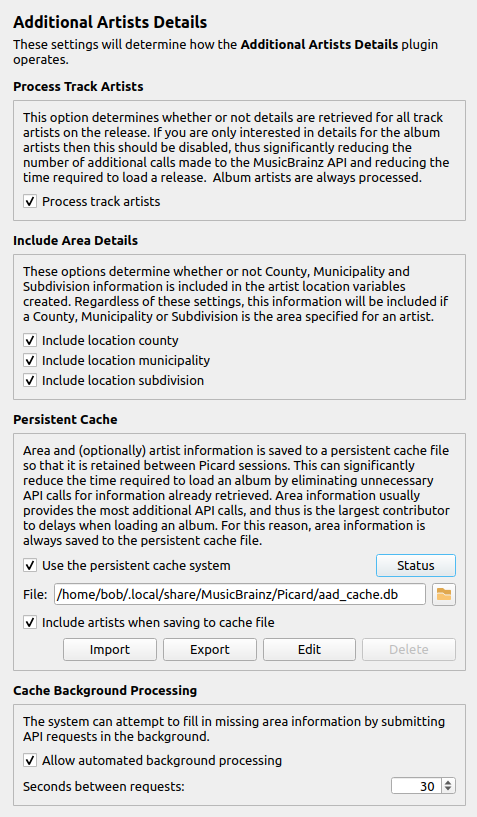
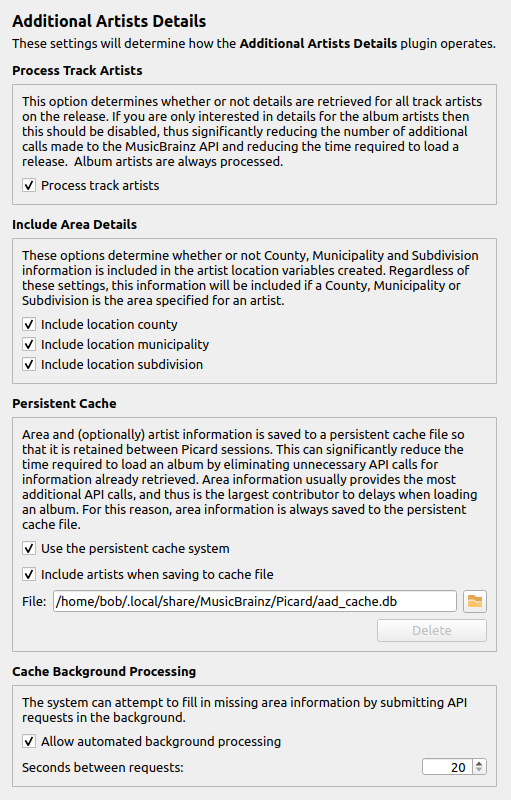
Revision to "Additional Artists Details"

diff --git a/additional_artists_details/user_guide.rst b/additional_artists_details/user_guide.rst
@@ -20,9 +20,9 @@ The plugin maintains a cache of artist and area information retrieved from Music
 
 There is a persistent cache system that utilizes a sqlite file to retain the information from the cache for use in subsequent Picard sessions.
 
-Area and (optionally) artist information is saved to the persistent cache file. Area information usually provides the most additional API calls, and thus is the largest contributor to delays when loading an album. For this reason, area information is always saved to the persistent cache file.
+Area and (optionally) artist information is saved to the persistent cache file. Area information usually provides the most additional API calls, and thus is the largest contributor to delays when loading an album. For this reason, area information is always saved to the persistent cache file if it is enabled.
 
-When artist and area information is retrieved from MusicBrainz, the persistent cache file is updated automatically with any new items, and the items are added to the session working cache.
+When artist and area information is retrieved from MusicBrainz, if the persistent cache system is enabled the database is updated automatically with any new items. Otherwise the items are added to the session working cache.
 
 Option Settings
 ----------------
@@ -60,28 +60,25 @@ While area information is almost always static and does not change, artist infor
 
    If use of the persistent cache system is disabled, no information will be written to, or read from, the persistent cache file.
 
-.. image:: cache_editor.png
-   :alt: Additional Artists Details Cache Editor
+Cache Background Processing
+++++++++++++++++++++++++++++
+
+Occasionally, area information is not retrieved from MusicBrainz as part of the normal album retrieval. This is typically the result of the MusicBrainz API being overloaded (usually by AI scrapers). Missing area information can result in incomplete area information in tags generated for an artist.
+
+The plugin attempts to address this by periodically reviewing the cache database to identify any missing parent areas, and generating requests for the information from the MusicBrainz API in the background. This functionality is enabled by default (strongly recommended), however there is an option to disable it. You can also set the number of seconds to wait (from 20 to 600 seconds) between sending area requests to the API.
+
+Plugin Tools Menu
++++++++++++++++++
+
+The :menuselection:`Plugin Tools --> Additional Artists Details` section of the main Picard menu bar provides some actions related to the plugin and its cache management.
+
+.. image:: plugin_menu.png
+   :alt: Additional Artists Details Cache Status
    :align: center
 
 |
 
-The cache editor displays a list of the artists currently contained in the cache. It allows you to remove one or more artists from the cache database file by selecting them from the list and clicking the :guilabel:`Remove` button. There is a check box to quickly select or deselect all artists, and an option to highlight and quickly move between artists using a filter.
-
-Because the area information causes numerous additional calls to the API resulting in significant delays, and because the information rarely changes, the area information items cannot be removed from the cache with the cache editor.
-
-The persistent cache action buttons include:
-
-- :guilabel:`Import` - Import items from a user-specified cache file into the cache. This can import backup files in CSV format saved using the Export function, or JSON format files saved using the Export function from prior versions of the plugin.
-- :guilabel:`Export` - Export the items from the current cache database to a user-specified file in CSV format. This can be used to generate a copy of the cache for backup purposes, for transferring to a different system, or for sharing with others.
-- :guilabel:`Edit` - Open the cache editor dialog. This allows you to review, and optionally remove, the artist records from the cache so that they are refreshed the next time they are included on an album retrieved from MusicBrainz.
-- :guilabel:`Delete` - Remove the cache database file from your system. This button is disabled if there is no existing cache database file, or if the option to use the persistent cache system is enabled.
-
-.. caution::
-
-   When the option to include artists when saving to the cache file is disabled, the artist information will **not** be written when using the :guilabel:`Export` action.
-
-There is also a :guilabel:`Status` button which shows information about the current session cache as well as the cache database.
+:menuselection:`Display the cache status` - Show information about the current session cache as well as the cache database.
 
 .. image:: cache_status.png
    :alt: Additional Artists Details Cache Status
@@ -91,20 +88,27 @@ There is also a :guilabel:`Status` button which shows information about the curr
 
 This displays the number of artist and area records currently stored in the session cache and the cache database file. It also indicates if there are any missing area parent records, and how many, and whether the missing area background processing is currently active.
 
+:menuselection:`Compact the cache database` - Compact the database file. When items are added, updated or removed from the persistent cache database, the database file may expand due to the items processed. This may lead to the database file using more disk space than necessary. To remove the unused space and compact the database, you can use this action.
+
+:menuselection:`Import cache data` - Import items from a user-specified cache file into the persistent cache database. This can import backup files in CSV format saved using the Export function, or JSON format files saved using the Export function from prior versions of the plugin.
+
+:menuselection:`Export cache data` - Export the items from the persistent cache database to a user-specified file in CSV format. This can be used to generate a copy of the cache for backup purposes, for transferring to a different system, or for sharing with others.
+
 .. note::
 
-   When items are added, updated or removed from the persistent cache database, the database file may expand due to the items processed. This may lead to the database file using more disk space than necessary. To remove the unused space and compact the database, you can use the :menuselection:`Plugin Tools --> Additional Artists Details --> Compact the database` action from the main Picard menu bar.
+   When the option to include artists when saving to the cache file is disabled, the artist information will **not** be written when using the :menuselection:`Export cache data` action, even if there is artist information in the database file.
 
-Cache Background Processing
-++++++++++++++++++++++++++++
+:menuselection:`Edit cache data` - Open the cache editor dialog. This allows you to review, and optionally remove, the artist records from the cache so that they are refreshed the next time they are included on an album retrieved from MusicBrainz.
 
-Occasionally, area information is not retrieved from MusicBrainz as part of the normal album retrieval. This is typically the result of the MusicBrainz API being overloaded (usually by AI scrapers). Missing area information can result in incomplete area information in tags generated for an artist.
+.. image:: cache_editor.png
+   :alt: Additional Artists Details Cache Editor
+   :align: center
 
-The plugin attempts to address this by periodically reviewing the cache database to identify any missing parent areas, and generating requests for the information from the MusicBrainz API in the background. This functionality is enabled by default (strongly recommended), however there is an option to disable it. You can also set the number of seconds to wait (from 20 to 600 seconds) between sending area requests to the API.
+|
 
-The background processing will be automatically terminated if there are no missing parent area records, or if there was an unrecoverable error encounted such as too many retries due to the API being unavailable. Errors causing the processing to be terminated are logged.
+The cache editor displays a list of the artists currently contained in the cache. It allows you to remove one or more artists from the cache database file by selecting them from the list and clicking the :guilabel:`Remove` button. There is a check box to quickly select or deselect all artists, and an option to highlight and quickly move between artists using a filter.
 
-If the background processing has been terminated, and you wish to restart it, you can use the :menuselection:`Plugin Tools --> Additional Artists Details --> Start background processing` action from the main Picard menu bar.
+Because the area information causes numerous additional calls to the API resulting in significant delays, and because the information rarely changes, the area information items cannot be removed from the cache with the cache editor.
 
 
 Variables Created
